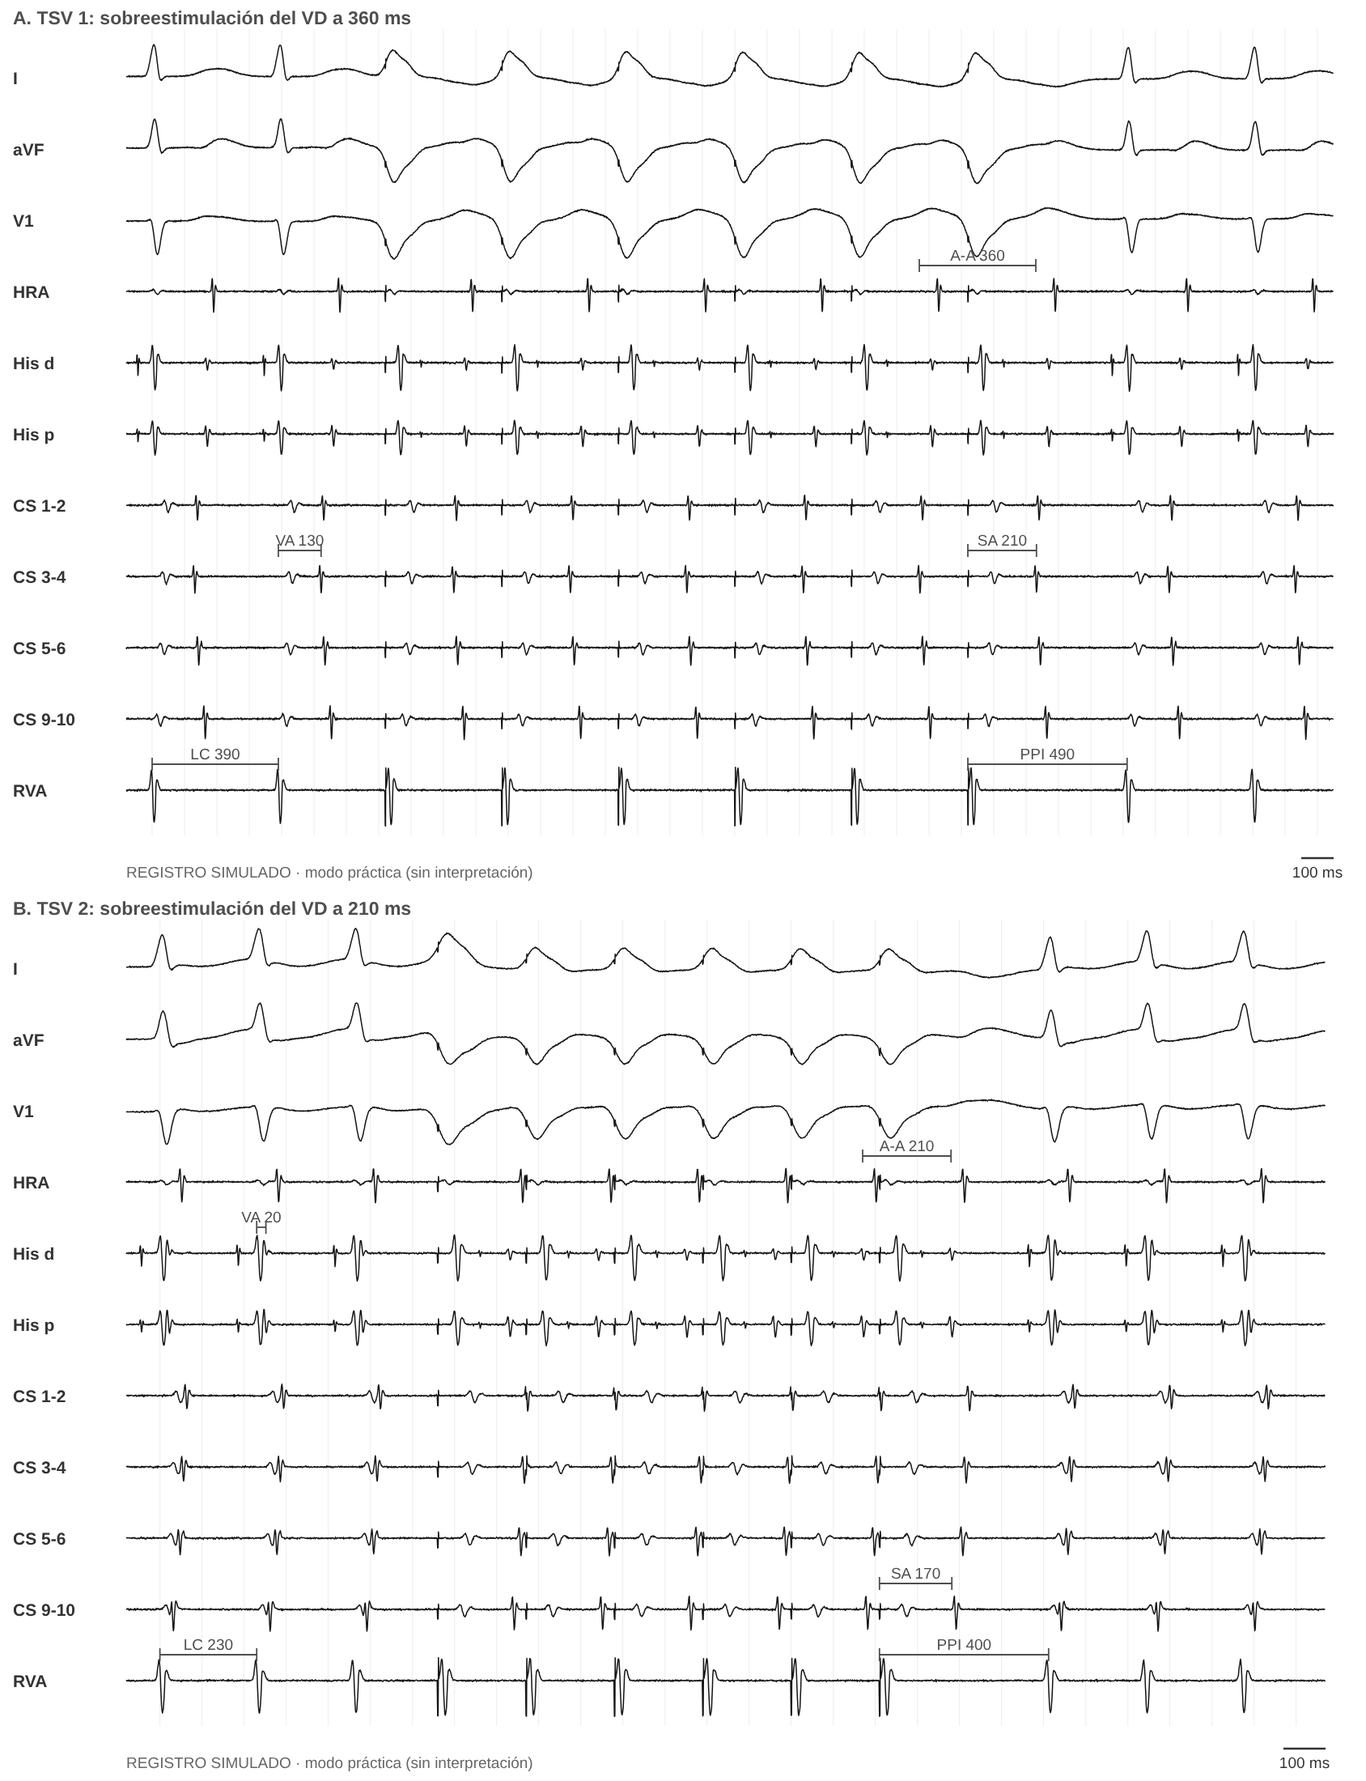
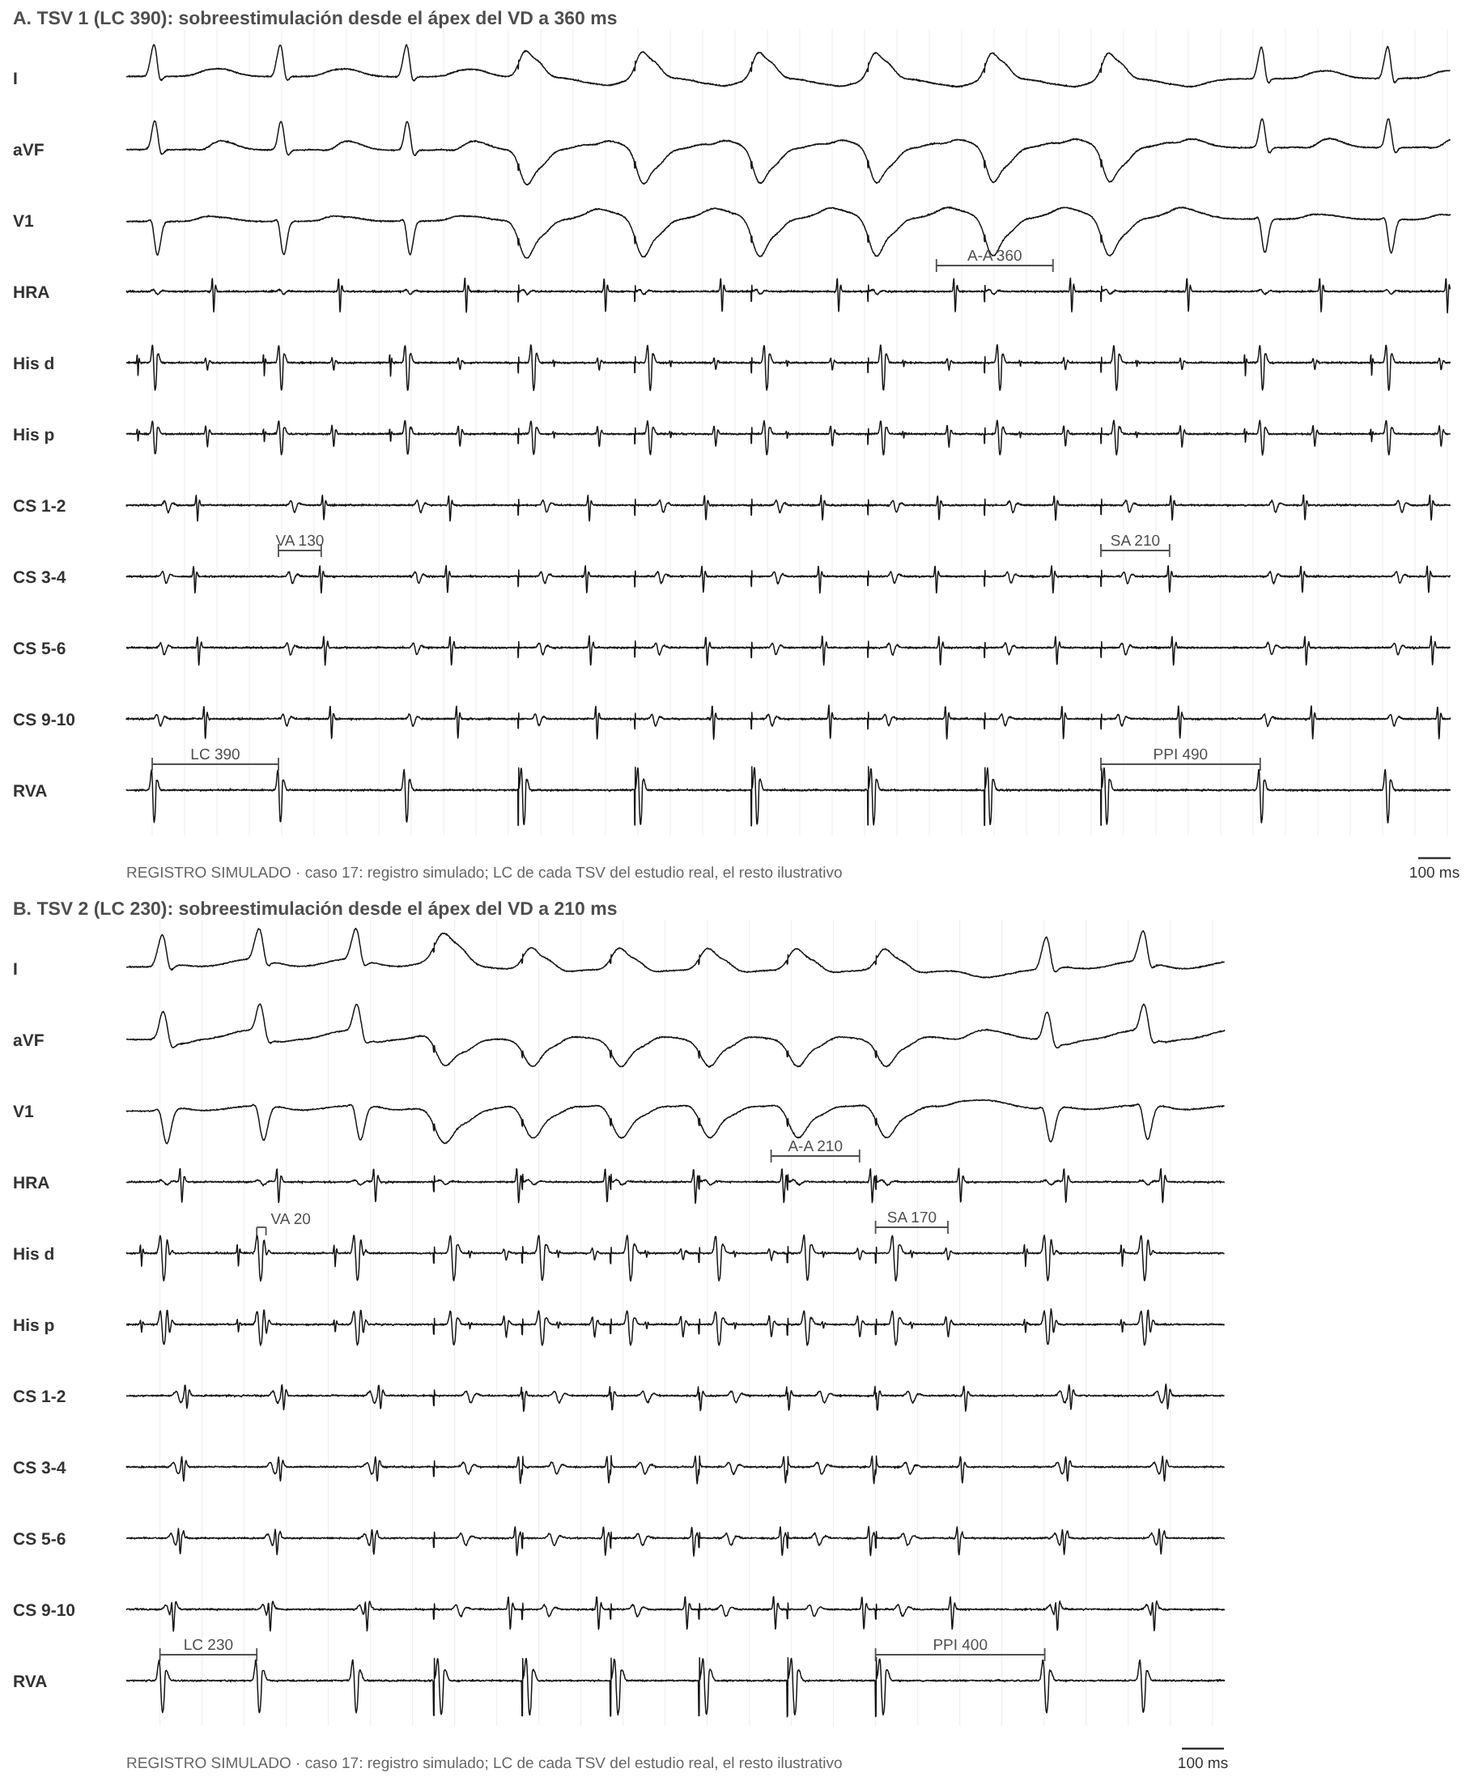
Caso 17 en formato nuevo: todas las maniobras simuladas para las dos TSV
Claude-Session: https://claude.ai/code/session_01Pw5rjt62KK5LeJZoEyFiaM

diff --git a/index.html b/index.html
@@ -313,7 +313,7 @@ dialog::backdrop{background:rgba(0,0,0,.45)}
 
 <div id="visor" hidden role="dialog" aria-label="Imagen ampliada"><div class="vbar"><button type="button" class="vm" aria-label="Achicar">−</button><button type="button" class="vp" aria-label="Agrandar">+</button><button type="button" class="vf">Ajustar</button><button type="button" class="vx">✕ Cerrar</button></div><div class="vbox"><img alt=""></div></div>
 <script>
-const APPV = 179;   // igual al número de CACHE_VERSION de sw.js
+const APPV = 180;   // igual al número de CACHE_VERSION de sw.js
 // ===============================================================================================================
 // Referencias. "propia" = artículo del material base; las demás se citan a través de esas revisiones.
 // ===============================================================================================================
@@ -1501,13 +1501,17 @@ const PCASOS = [
     dx: ['trnav_t', 'bys'], ex: 'Durante la TSV el VA septal es de 20 ms y la activación es concéntrica: una TSV así no puede usar una vía lateral izquierda, y el VA ≤ 70 ms excluye la TRAV. La vía existe (conducción VA excéntrica al estimular el ventrículo y en la para-Hisiana sin His), pero no participa: la EV con His refractario adelanta una A con otra secuencia sin resetear la taquicardia, y al cortar la sobreestimulación la respuesta es A-V con vuelta a la secuencia concéntrica. El encarrilamiento diferencial engaña porque la A sube por la vía durante la estimulación. TRNAV típica con una vía izquierda espectadora: se ablaciona la vía lenta y también la vía.', refs: ['knight00', 'veen12'] },
   { id: 'c17', t: 'Dos taquicardias en una niña de 9 años', p: 'Niña de 9 años con TSV recurrentes. Registros reales del polígrafo.',
     basal: 'figs/sim/casos/c17_vbasal.jpg', basalReal: true, ind: 'figs/sim/casos/c17_ind.jpg', indReal: true, indt: 'Inducción de la TSV 2 con estimulación desde el SC', extra: [['figs/sim/casos/c17_trav.jpg', 'TSV 1 (LC 390)', true]],
-    h: ['Se inducen dos TSV de QRS angosto distintas', 'TSV 1: LC 390 ms, activación auricular excéntrica, más precoz en el SC 3-4 (pared posterolateral izquierda)', 'TSV 2: LC ~230 ms, inducida con estimulación desde el SC; conduce con aberrancia en algunos tramos'],
-    m: { pre: { r: 'Estimulación del VD en ritmo sinusal (tren y extraestímulo S1 600 / S2 300): conducción retrógrada excéntrica, con la A precoz en el SC lateral. Extraestímulos desde el SC con S1 600: salto del AH.', u: 'clave', img: 'figs/sim/casos/c17_salto.jpg', real: true },
-      abll: { r: 'Se ablacionaron la vía posterolateral izquierda y la vía lenta; después no se indujeron taquicardias.', u: 'util' },
-      vop: { r: 'TSV 1 (LC 390): encarrilada desde el ápex del VD a 360 ms, las A se aceleran con la misma secuencia excéntrica (A más precoz en el SC 3-4); al cortar, respuesta A-V. TSV 2 (LC 230): encarrilada a 210 ms, A concéntricas; al cortar, respuesta A-V. (Registro simulado sobre las LC reales.)', u: 'clave', img: 'figs/sim/prac/p17_vop.png' },
-      medidas: { r: 'TSV 1: PPI−LC 100 ms, SA−VA 80 ms (valores en el límite: la vía es lateral, lejos del ápex). TSV 2: PPI−LC 170 ms, SA−VA 150 ms. (Ilustrativos.)', u: 'util', img: 'figs/sim/prac/p17_vop.png' },
-      ehr: { r: 'TSV 1: una EV con His refractario adelanta la A 20 ms con la misma secuencia excéntrica y resetea la taquicardia. TSV 2: una EV con His refractario no modifica la A. (Registro simulado de la TSV 1.)', u: 'clave', img: 'figs/sim/prac/p17_ehr.png' },
-      eha: { r: 'TSV 2: un EA con His refractario desde el ostium del SC retrasa el His siguiente 15 ms. (Ilustrativo.)', u: 'util' } },
+    h: ['Se inducen dos TSV de QRS angosto, con relación AV 1:1', 'TSV 1: LC 390 ms, VA 130 ms, A más precoz en el SC 3-4', 'TSV 2: LC ~230 ms, VA 20 ms, A más precoz en el His; inducida con estimulación desde el SC; conduce con aberrancia en algunos tramos', 'VA 130 y 20: valores ilustrativos (las LC son las del estudio real)'],
+    hk: ['TSV 1: activación excéntrica con la A más precoz en el SC 3-4 (pared posterolateral izquierda): vía izquierda o TA izquierda.', 'TSV 2: VA 20 concéntrico; VA ≤ 70 excluye la TRAV: TRNAV típica o TA (o taquicardia de la unión).', 'Dos taquicardias distintas en el mismo paciente: hay que estudiar cada una con sus propias maniobras.'],
+    m: { pre: { v: 'Estimulación del VD en ritmo sinusal (tren y extraestímulo S1 600 / S2 300): la A más precoz es la del SC lateral. Extraestímulos desde el SC con S1 600: salto del AH.', r: 'Conducción retrógrada excéntrica: hay una vía izquierda. Salto del AH: doble fisiología nodal. Hay sustrato para las dos taquicardias.', u: 'clave', img: 'figs/sim/casos/c17_salto.jpg', real: true },
+      vop: { v: 'A. TSV 1: estimulando el ápex del VD a 360 ms las A se aceleran a 360 con la misma secuencia excéntrica; al cortar, el primer electrograma después de la última A es un V. B. TSV 2: a 210 ms las A se aceleran a 210, concéntricas; al cortar, también sigue un V.', r: 'Respuesta A-V en las dos: excluye la TA en ambas.', u: 'clave', img: 'figs/sim/prac/p17_vop.png' },
+      medidas: { v: 'A. TSV 1: PPI 490 (PPI−LC 100), SA 210 (SA−VA 80), HA 175 → 100 (ΔHA −75). B. TSV 2: PPI 400 (PPI−LC 170), SA 170 (SA−VA 150), HA 65 → 85 (ΔHA +20).', r: 'TSV 1: PPI−LC < 115, SA−VA < 85 y ΔHA < −10: el ventrículo está en el circuito (TRAV). TSV 2: PPI−LC > 115, SA−VA > 85 y ΔHA > −10: el ventrículo no está en el circuito (TRNAV).', u: 'clave', img: 'figs/sim/prac/p17_medidas.png' },
+      ehr: { v: 'A. TSV 1: la EV con el His refractario adelanta la A 20 ms (A-A 370) con la misma secuencia excéntrica y resetea la taquicardia. B. TSV 2: la A siguiente no cambia (A-A 230).', r: 'TSV 1: la vía participa en la taquicardia (TRAV). TSV 2: sin cambio, esperable en la TRNAV.', u: 'clave', img: 'figs/sim/prac/p17_ehr.png' },
+      diff: { v: 'TSV 1: SA 210 desde el ápex y 195 desde la base (ΔVA −15). TSV 2: SA 170 desde el ápex y 205 desde la base (ΔVA +35).', r: 'TSV 1: ΔVA ≤ 20: TRAV. TSV 2: ΔVA > 20: TRNAV.', u: 'util', img: 'figs/sim/prac/p17_diff.png' },
+      aop: { v: 'A. TSV 1: desde la AD alta a 360 ms, V-V 360 con AH 230 (en la TSV, 215); al cortar, VA 130, igual al de la TSV. B. TSV 2: a 210 ms, V-V 210 con AH 210 (en la TSV, 165); al cortar, VA 20, igual al de la TSV.', r: 'VA linking en las dos: excluye la TA. ΔAH: TSV 1, +15 (< 20); TSV 2, +45 (> 40, apoya la TRNAV).', u: 'util', img: 'figs/sim/prac/p17_aop.png' },
+      eha: { v: 'A. TSV 1: EA desde el ostium del SC con el His refractario: el His siguiente sale a su tiempo (H-H 390). B. TSV 2: el His siguiente se retrasa 15 ms (H-H 245).', r: 'TSV 2: el EA entra en el circuito por la vía lenta aunque el His esté refractario: TRNAV. TSV 1: sin cambio, esperable en la TRAV.', u: 'util', img: 'figs/sim/prac/p17_eha.png' },
+      parahis: { v: 'En ritmo sinusal, con captura del His: SA 85 y QRS 95. Solo V: SA 135 y QRS 150. Misma secuencia auricular, concéntrica.', r: 'Engañosa: respuesta nodal porque la vía posterolateral izquierda está lejos del sitio de estimulación; la para-Hisiana solo descarta vías septales.', u: 'trampa', img: 'figs/sim/prac/p17_parahis.png' },
+      ado: { v: 'A. TSV 1: termina; el último latido es una A que no conduce al V. B. TSV 2: también termina con una A.', r: 'Las dos terminan con bloqueo anterógrado en el nodo AV: excluye la TA en ambas.', u: 'util', img: 'figs/sim/prac/p17_ado.png' } },
     dx: ['trav_l', 'trnav_t'], ex: 'Hay dos sustratos en el mismo paciente. La conducción retrógrada excéntrica al estimular el ventrículo demuestra una vía izquierda (posterolateral), y la TSV de LC 390 con la A más precoz en el SC 3-4 es una TRAV ortodrómica por esa vía. El salto del AH con extraestímulos desde el SC demuestra doble fisiología nodal, y la segunda TSV (LC ~230), inducida con estimulación desde el SC, es una TRNAV típica. Cada taquicardia tiene su propio sustrato, y se ablacionaron los dos: la vía posterolateral izquierda y la vía lenta.', refs: ['knight00', 'veen11'] }
 ];
 let pState = {};

diff --git a/sw.js b/sw.js
@@ -1,6 +1,6 @@
 // Permite instalar la app y abrirla sin conexión. Primero la red (siempre lo último publicado); si no hay, la copia.
 // Si cambiás un archivo, subí CACHE_VERSION.
-const CACHE_VERSION = 'mef-v179';
+const CACHE_VERSION = 'mef-v180';
 const ARCHIVOS = ['./', './index.html', './manifest.json', './iconos/icon-192.png', './iconos/icon-512.png'];
 self.addEventListener('install', e => e.waitUntil(caches.open(CACHE_VERSION).then(c => c.addAll(ARCHIVOS)).then(() => self.skipWaiting())));
 self.addEventListener('activate', e => e.waitUntil(caches.keys().then(ks => Promise.all(ks.filter(k => k !== CACHE_VERSION).map(k => caches.delete(k)))).then(() => self.clients.claim())));

diff --git a/herramientas/simulador/cases6.py b/herramientas/simulador/cases6.py
@@ -1604,6 +1604,162 @@ S['p16_eha'] = dict(win=(-100, vs[-1] + 250), pxms=0.22, title='EA con His refra
     cal=[(hs[3], hs[4], 'His d', f'H-H {LC16}'), (hs[4], hs[5], 'His d', f'H-H {LC16 + 15}')],
     marks=[(apb, 'V1', 'EA')])
 
+# =====================================================================================================
+# Caso 17 (registros reales): dos TSV. TSV 1: TRAV por vía posterolateral izquierda (LC 390 real; VA 130 ilustrativo, A precoz en el SC 3-4).
+# TSV 2: TRNAV típica (LC 230 real; VA 20 ilustrativo, concéntrica). Cada maniobra: panel A (TSV 1) y panel B (TSV 2).
+CH17 = ['HRA', 'His d', 'His p', 'CS 1-2', 'CS 3-4', 'CS 5-6', 'CS 9-10', 'RVA']
+SRC17 = 'caso 17: registro simulado; LC de cada TSV del estudio real, el resto ilustrativo'
+T17 = {1: dict(LC=390, VA=130, seq='left34', ch='CS 3-4', SC=360, SA=210, PPI=490, HR=110, SAb=195, AHs=230, d=55),
+       2: dict(LC=230, VA=20, seq='conc_his', ch='His d', SC=210, SA=170, PPI=400, HR=85, SAb=205, AHs=210, d=10)}
+
+
+def vop17(t, med, base=False, title=None):
+    P = T17[t]; LCx, VAx, SCx = P['LC'], P['VA'], P['SC']
+    sa = P['SAb'] if base else P['SA']
+    ppi = P['PPI'] + (sa - P['SA'])
+    hr = P['HR'] + (sa - P['SA'])
+    svt = [0, LCx, 2 * LCx]
+    sp = [svt[-1] + LCx - 40 + SCx * k for k in range(6)]
+    A = [v + VAx for v in svt] + [s + sa for s in sp]
+    ret = sp[-1] + ppi
+    after = [ret, ret + LCx]
+    cal = [(svt[0], svt[1], 'RVA', f'LC {LCx}'), (svt[1], svt[1] + VAx + 2, P['ch'], f'VA {VAx}'),
+           (sp[-1], A[-1] + 2, P['ch'], f'SA {sa}'), (sp[-1], ret + 2, 'RVA', f'PPI {ppi}')]
+    marks = []
+    if not med:
+        cal.insert(2, (A[-3] + 2, A[-2] + 2, 'HRA', f'A-A {SCx}'))
+    else:
+        HAt, HAp = HV + VAx, sa - hr
+        cal += [(svt[1] - HV, svt[1] + VAx, 'His p', f'HA {HAt}'), (sp[-1] + hr, A[-1], 'His p', f'HA {HAp}')]
+        x = sp[-1] + (ppi + 60) // 2 if t == 2 else sp[-1] + 230
+        marks = [(x, 'I', f'PPI − LC = {ppi} − {LCx} = {ppi - LCx} ms'), (x, 'aVF', f'SA − VA = {sa} − {VAx} = {sa - VAx} ms'),
+                 (x, 'V1', f'ΔHA = {HAp} − {HAt} = {HAp - HAt:+d} ms'.replace('-', '−'))]
+    lab = 'TSV 1 (LC 390)' if t == 1 else 'TSV 2 (LC 230)'
+    return dict(win=(-80, after[-1] + 200), pxms=0.20 if t == 1 else 0.26, channels=CH17, src=SRC17,
+        title=title or f'{"AB"[t - 1]}. {lab}: sobreestimulación desde el ápex del VD a {SCx} ms',
+        beats=[(v, 'n') for v in svt + after] + [(s, 'pb' if base else 'pa') for s in sp], spikes=sp, pace_ch='RVA',
+        atr=[(a, P['seq'], -1) for a in A + [v + VAx for v in after]], h_ante=[v - HV for v in svt + after],
+        h_retro=[s + hr for s in sp], cal=cal, marks=marks)
+
+
+S['p17_vop_a'] = vop17(1, False)
+S['p17_vop_b'] = vop17(2, False)
+S['p17_medidas_a'] = vop17(1, True, title='A. TSV 1 (LC 390): medidas desde el ápex del VD a 360 ms')
+S['p17_medidas_b'] = vop17(2, True, title='B. TSV 2 (LC 230): medidas desde el ápex del VD a 210 ms')
+
+
+def diff17(t):
+    P = T17[t]
+    a, b = vop17(t, False), vop17(t, False, base=True)
+    lab = 'TSV 1' if t == 1 else 'TSV 2'
+    a['title'] = f'{"AC"[t - 1]}. {lab}: encarrilamiento desde el ápex del VD ({P["SC"]} ms)'
+    b['title'] = f'{"BD"[t - 1]}. {lab}: desde la base del VD ({P["SC"]} ms)'
+    b['marks'] = [(b['spikes'][-1] + 260 if t == 1 else b['spikes'][-1] + 240, 'I', f'ΔVA (base − ápex) = {P["SAb"]} − {P["SA"]} = {P["SAb"] - P["SA"]:+d} ms'.replace('-', '−'))]
+    return a, b
+
+
+S['p17_diff_a'], S['p17_diff_b'] = diff17(1)
+S['p17_diff_c'], S['p17_diff_d'] = diff17(2)
+
+
+def ehr17(t):
+    P = T17[t]; LCx, VAx = P['LC'], P['VA']
+    k = 3
+    vs = [i * LCx for i in range(k)]
+    h_exp = k * LCx - HV
+    d = 20 if t == 1 else 0
+    A = [v + VAx for v in vs] + [k * LCx + VAx - d]
+    nxt = A[-1] + (LCx - VAx) if d else k * LCx + LCx
+    after = [nxt, nxt + LCx]
+    A += [v + VAx for v in after]
+    lab = 'TSV 1' if t == 1 else 'TSV 2'
+    return dict(win=(-80, after[-1] + 200), pxms=0.26 if t == 1 else 0.34, channels=CH17, src=SRC17,
+        title=f'{"AB"[t - 1]}. {lab}: EV con His refractario desde el ápex del VD',
+        spikes=[h_exp], pace_ch='RVA', beats=[(v, 'n') for v in vs] + [(h_exp, 'pa')] + [(v, 'n') for v in after],
+        atr=[(a, P['seq'], -1) for a in A], h_ante=[v - HV for v in vs] + [h_exp] + [v - HV for v in after],
+        cal=[(A[k - 2] + 2, A[k - 1] + 2, P['ch'], f'A-A {LCx}'), (A[k - 1] + 2, A[k] + 2, P['ch'], f'A-A {LCx - d}' + (f' (−{d})' if d else ''))],
+        marks=[(h_exp, 'V1', 'EV'), (h_exp, 'His p', 'H')])
+
+
+S['p17_ehr_a'] = ehr17(1)
+S['p17_ehr_b'] = ehr17(2)
+
+
+def aop17(t):
+    P = T17[t]; LCx, VAx, SCx = P['LC'], P['VA'], P['SC']
+    AHt, AHs = LCx - HV - VAx, P['AHs']
+    vs = [0, LCx, 2 * LCx]
+    A = [v + VAx for v in vs]
+    if t == 1:                      # VA largo: el tren arranca después del QRS siguiente, antes de su A retrógrada
+        sp = [vs[-1] + LCx + P['d'] + SCx * k for k in range(6)]
+        vs = vs + [vs[-1] + LCx]
+        atrA = A
+    else:                           # VA corto: la última A de la TSV conduce al último QRS; el tren sale después
+        sp = [vs[-1] + P['d'] + SCx * k for k in range(6)]
+        atrA = A[:-1]
+    pv = [s + 28 + AHs + HV for s in sp]
+    vs2 = [pv[-1] + LCx, pv[-1] + 2 * LCx]
+    lab = 'TSV 1' if t == 1 else 'TSV 2'
+    return dict(win=(-80, vs2[-1] + 200), pxms=0.17 if t == 1 else 0.24, channels=CH17, src=SRC17,
+        title=f'{"AB"[t - 1]}. {lab}: sobreestimulación auricular desde la AD alta a {SCx} ms',
+        beats=[(v, 'n') for v in vs + pv + vs2], aspikes=sp, apace_ch='HRA',
+        atr=[(a, P['seq'], -1) for a in atrA] + [(s + 5, 'sinus', 1) for s in sp] + [(v + VAx, P['seq'], -1) for v in [pv[-1]] + vs2],
+        h_ante=[v - HV for v in vs + pv + vs2],
+        cal=[(vs[0], vs[1], 'RVA', f'V-V {LCx}'), (vs[0], A[0] + 2, P['ch'], f'VA {VAx}'), (A[0], vs[1] - HV, 'His p', f'AH {AHt}'),
+             (sp[-2], sp[-1], 'HRA', f'S-S {SCx}'), (sp[-1] + 28, pv[-1] - HV, 'His p', f'AH {AHs}'),
+             (pv[-2], pv[-1], 'RVA', f'V-V {SCx}'), (pv[-1], pv[-1] + VAx + 2, P['ch'], f'VA {VAx}')],
+        marks=[(pv[-1] + (160 if t == 1 else 90), 'I', f'ΔAH = {AHs} − {AHt} = +{AHs - AHt} ms')])
+
+
+S['p17_aop_a'] = aop17(1)
+S['p17_aop_b'] = aop17(2)
+
+
+def eha17(t):
+    P = T17[t]; LCx, VAx = P['LC'], P['VA']
+    d = 15 if t == 2 else 0
+    hs = [i * LCx - HV for i in range(7 if t == 2 else 6)]
+    apb = hs[3] + 10
+    hs = hs[:4] + [h + d for h in hs[4:]]
+    vs = [h + HV for h in hs]
+    A = [v + VAx for k2, v in enumerate(vs) if k2 != 3]
+    lab = 'TSV 1' if t == 1 else 'TSV 2'
+    return dict(win=(-100, vs[-1] + 200), pxms=0.20 if t == 1 else 0.30, channels=CH17, src=SRC17,
+        title=f'{"AB"[t - 1]}. {lab}: EA con His refractario desde el ostium del SC',
+        beats=[(x, 'n') for x in vs], aspikes=[apb], apace_ch='CS 9-10',
+        atr=[(a, P['seq'], -1) for a in A] + [(apb + 4, 'conc_cs', 1)], h_ante=hs,
+        cal=[(hs[2], hs[3], 'His d', f'H-H {LCx}'), (hs[3], hs[4], 'His d', f'H-H {LCx + d}')],
+        marks=[(apb, 'V1', 'EA')])
+
+
+S['p17_eha_a'] = eha17(1)
+S['p17_eha_b'] = eha17(2)
+
+
+def ado17(t):
+    P = T17[t]; LCx, VAx = P['LC'], P['VA']
+    vs = [i * LCx for i in range(4)]
+    A = [v + VAx for v in vs]
+    lab = 'TSV 1' if t == 1 else 'TSV 2'
+    return dict(win=(-80, A[-1] + 700), pxms=0.22 if t == 1 else 0.30, channels=CH17, src=SRC17,
+        title=f'{"AB"[t - 1]}. {lab}: adenosina IV durante la taquicardia',
+        beats=[(v, 'n') for v in vs], atr=[(a, P['seq'], -1) for a in A], h_ante=[v - HV for v in vs],
+        cal=[(vs[0], vs[1], 'RVA', f'LC {LCx}'), (vs[3], A[3] + 2, P['ch'], f'VA {VAx}')],
+        marks=[(A[3] + 60, 'aVF', 'última: A sin V')])
+
+
+S['p17_ado_a'] = ado17(1)
+S['p17_ado_b'] = ado17(2)
+
+# Para-Hisiana en sinusal: SA 85 → 135 con la misma secuencia concéntrica (la vía posterolateral está lejos del sitio).
+sp = [0, 650, 1300, 1950]
+cap = [True, False, True, False]
+S['p17_parahis'] = dict(win=(-80, 2300), pxms=0.32, title='Estimulación para-Hisiana en ritmo sinusal', channels=CH17, src=SRC17,
+    spikes=sp, pace_ch='His p', beats=[(s + HV if c else s, 'n' if c else 'pa') for s, c in zip(sp, cap)],
+    atr=[(s + (85 if c else 135), 'conc_his', -1) for s, c in zip(sp, cap)],
+    cal=[(sp[0], sp[0] + 87, 'His d', 'SA 85'), (sp[1], sp[1] + 137, 'His d', 'SA 135'), (sp[2] + HV, sp[2] + HV + 95, 'RVA', 'QRS 95'), (sp[3], sp[3] + 150, 'RVA', 'QRS 150')],
+    marks=[(sp[0] + 30, 'V1', 'His + V'), (sp[1] + 40, 'V1', 'solo V')])
+
 if __name__ == '__main__':
     for k in (sys.argv[3:] or S):
         render(S[k], f'{OUT}/{k}.svg')

diff --git a/herramientas/simulador/build_all.py b/herramientas/simulador/build_all.py
@@ -52,10 +52,6 @@ for f in sorted(os.listdir(FIGS)):
     n = f[:-4]
     if n == 'trnav_bys':
         add(f, [(k, S[k]) for k in ('bys_a', 'bys_b', 'bys_c')])
-    elif n == 'p17_vop':
-        add(f, [(k, S[k]) for k in ('c17s_vop_a', 'c17s_vop_b')])
-    elif n == 'p17_ehr':
-        add(f, [('c17s_ehr', S['c17s_ehr'])])
     elif n in ('pm_doppa', 'tada05'):
         add(f, [(n, S[n]), (n + '_ecg', ('ecg', 'pm_ecg' if n == 'pm_doppa' else 'ma_ecg'))])
     elif panels(n):
@@ -63,8 +59,7 @@ for f in sorted(os.listdir(FIGS)):
     else:
         print('sin escenario:', f)
 
-NEUTRO = {'p17_vop': [('c17s_vop_a', 'A. TSV 1: sobreestimulación del VD a 360 ms'), ('c17s_vop_b', 'B. TSV 2: sobreestimulación del VD a 210 ms')],
-          'p17_ehr': [('c17s_ehr', 'TSV 1: EV con His refractario')]}
+NEUTRO = {}
 for f in sorted(os.listdir(os.path.join(FIGS, 'prac'))):
     if not f.endswith('.png'):
         continue
